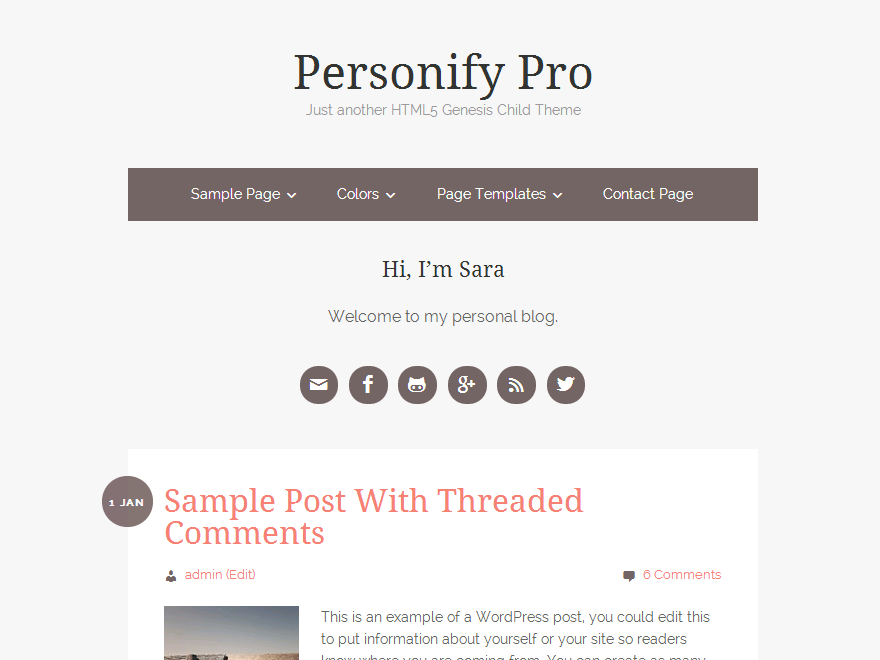
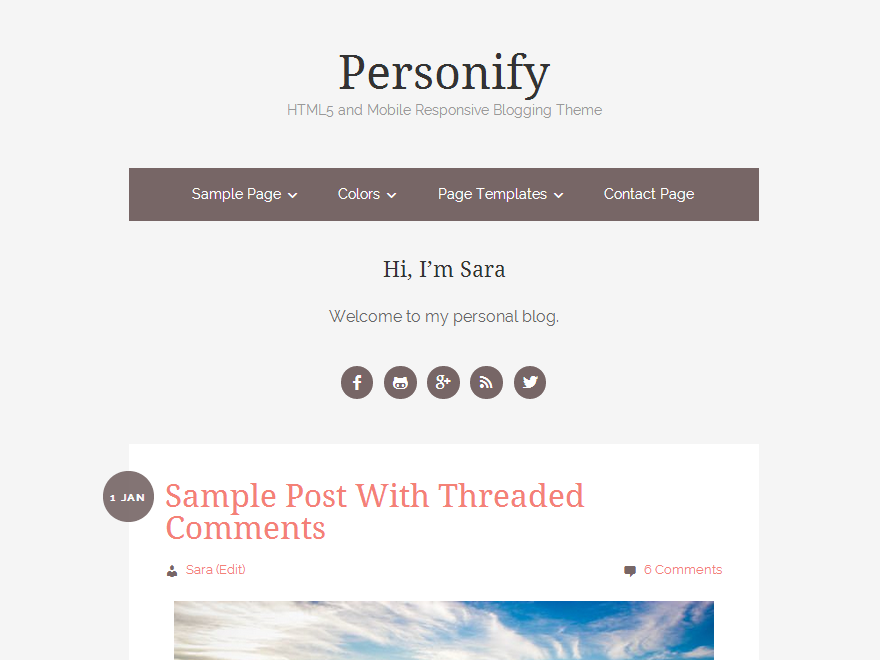
Update to 1.0.2
Update screenshot and theme version

diff --git a/style.css b/style.css
@@ -1,9 +1,9 @@
 /*
-	Theme Name: Personify Pro
+	Theme Name: Personify
 	Description: A mobile responsive and HTML5 theme built for the Genesis Framework.
 	Author: WPSpeak
 	Author URI: http://wpspeak.com/
-	Version: 1.0.1
+	Version: 1.0.2
  
 	Tags: black, turquoise, green, pink, white, one-column, fixed-width, custom-menu, full-width-template, sticky-post, theme-options, threaded-comments
  
